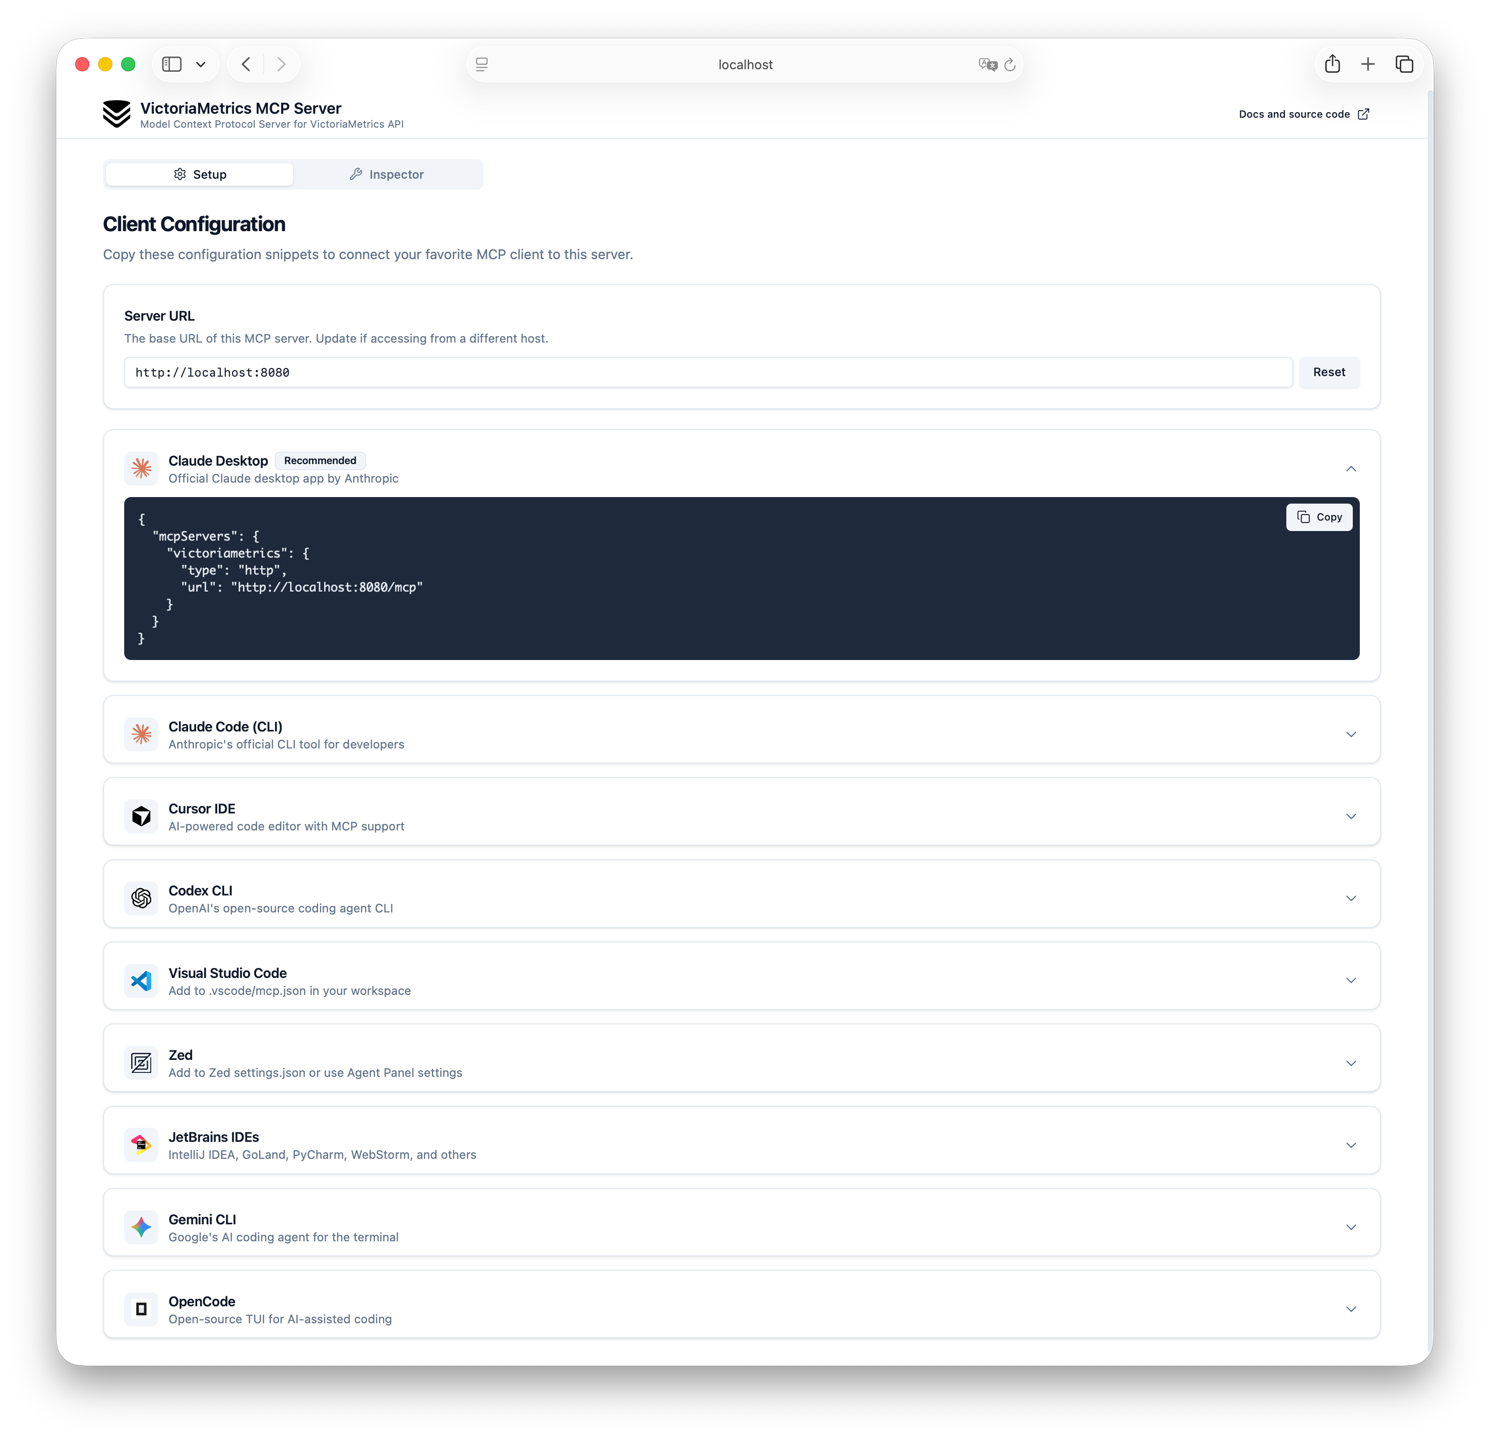
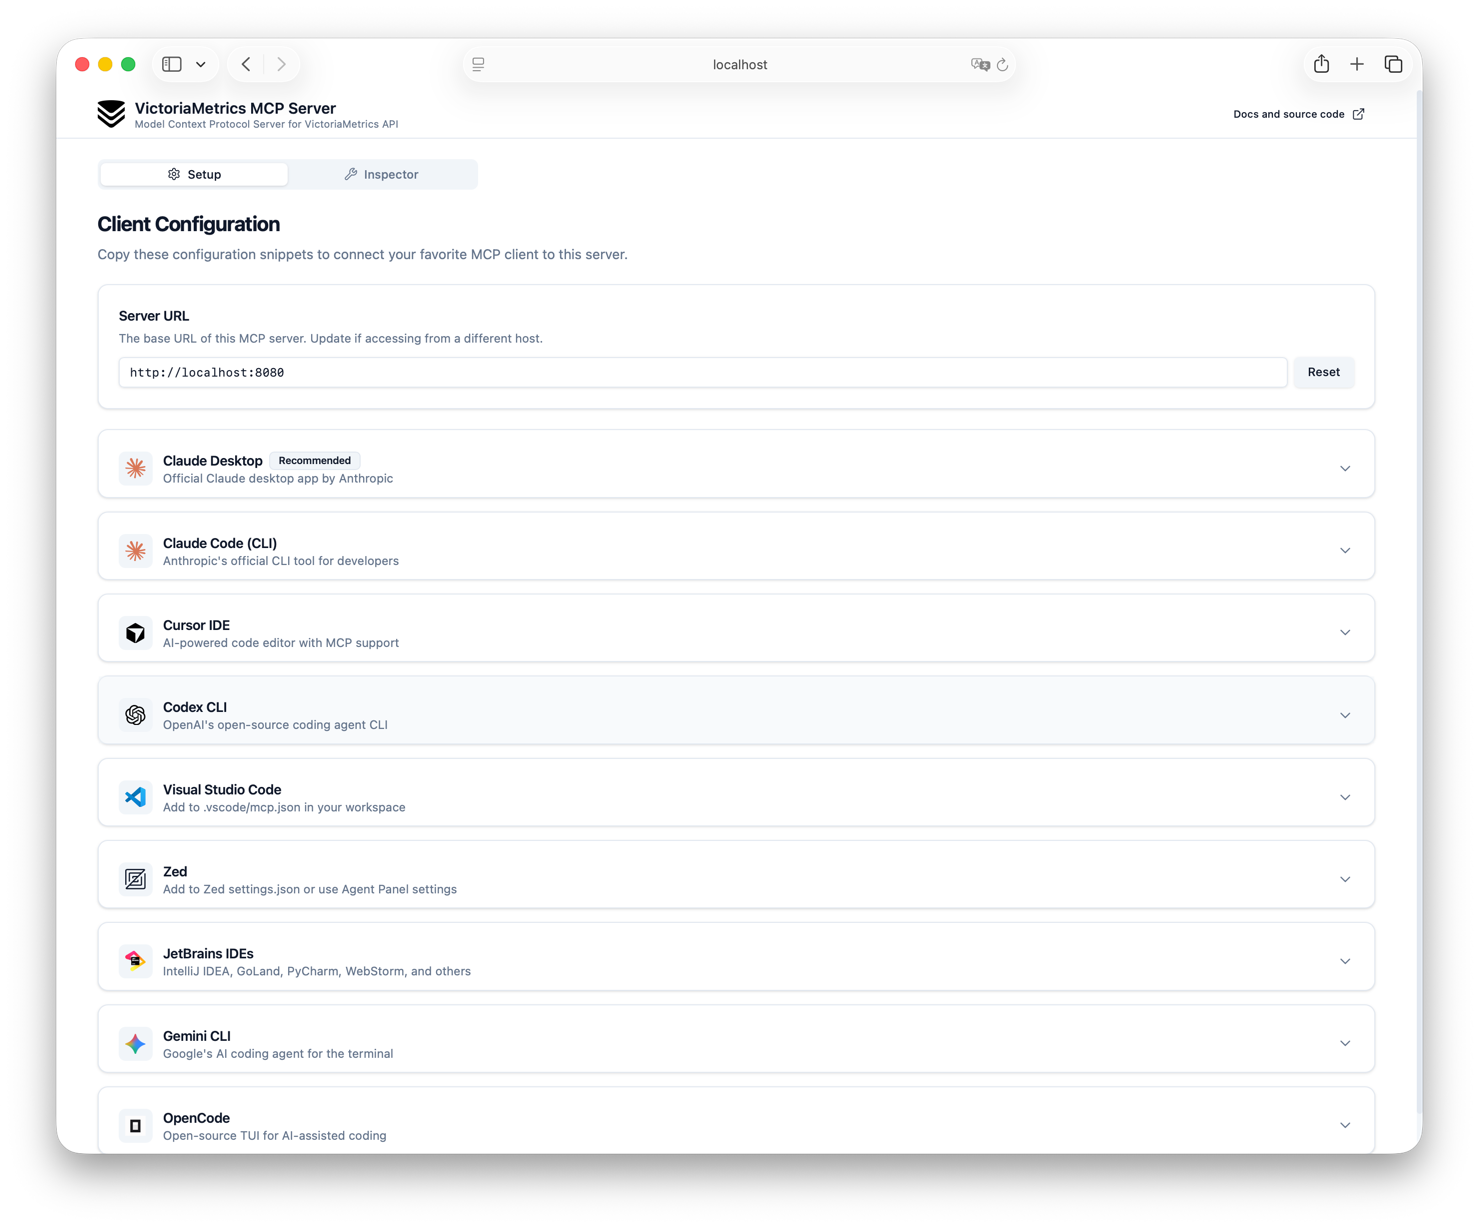
fix instructions for Claude Desktop in UI

diff --git a/web/src/components/tabs/client-configs.tsx b/web/src/components/tabs/client-configs.tsx
@@ -99,8 +99,8 @@ export function ClientConfigs() {
       config: `{
   "mcpServers": {
     "victoriametrics": {
-      "type": "http",
-      "url": "${serverUrl}/mcp"
+      "command": "npx",
+      "args": ["-y", "mcp-remote", "${serverUrl}/mcp"]
     }
   }
 }`,
